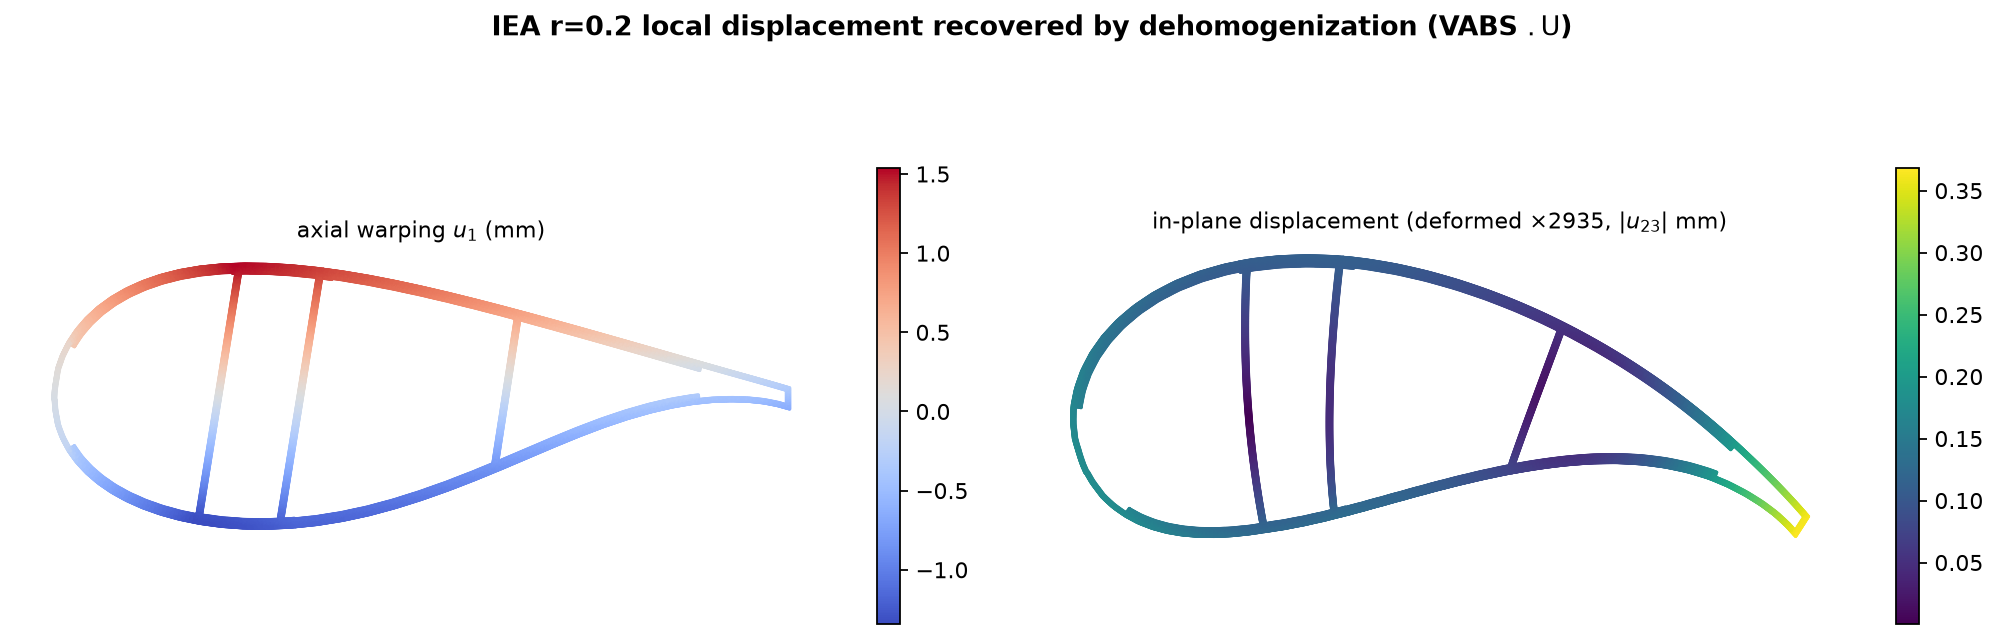
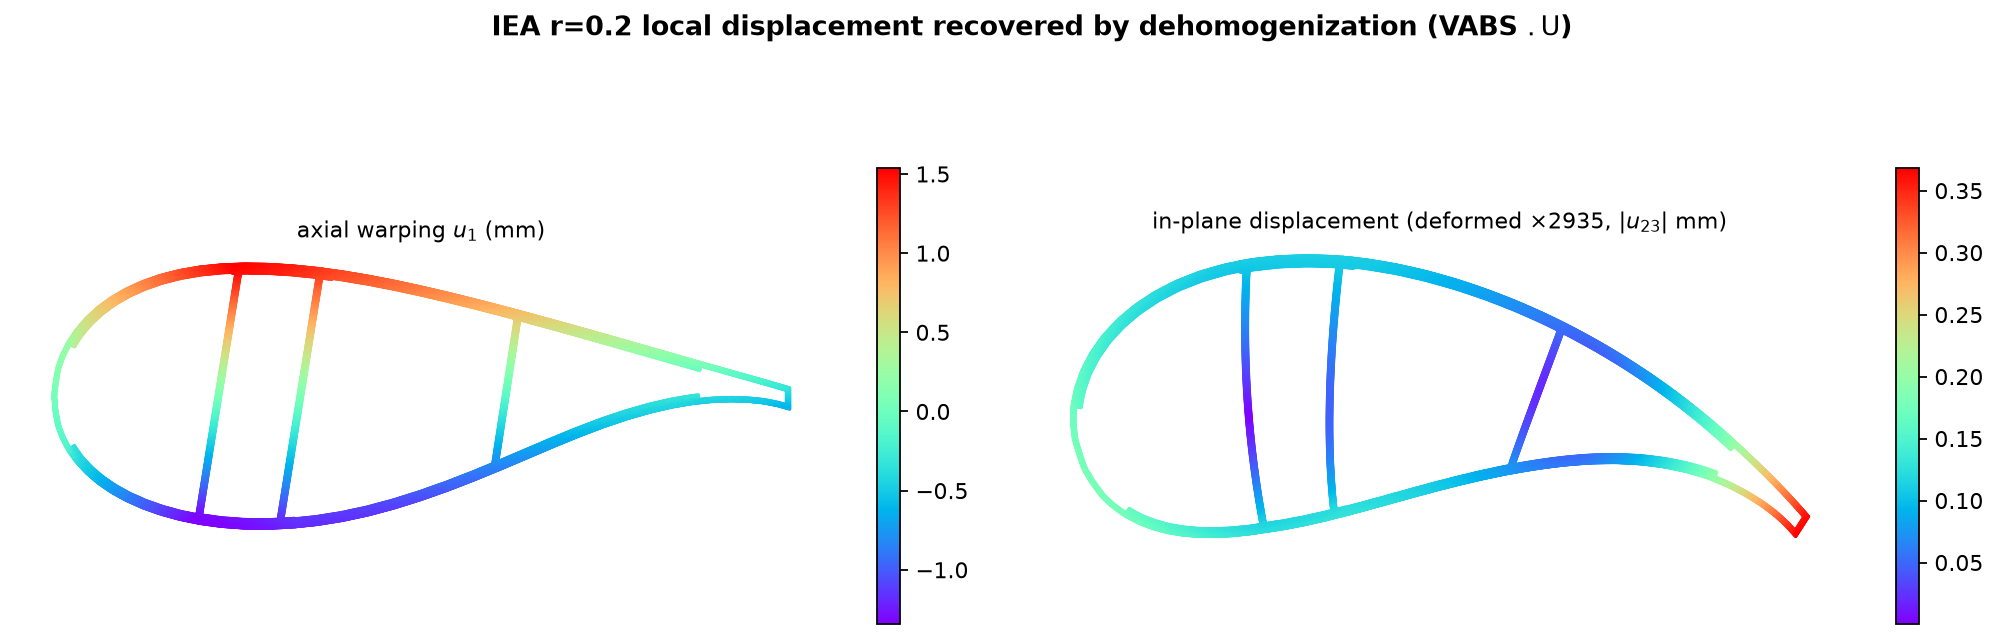
r=0.2 dehom figures: rainbow colormap (materials + displacement fields) + right/vertical legend

diff --git a/examples/TW-paper/xsec_paper/emit_r020_dehom_paper.py b/examples/TW-paper/xsec_paper/emit_r020_dehom_paper.py
@@ -28,7 +28,8 @@ UF = os.path.join(D2, "iea_r020.sg.U")
 TEX = os.path.join(HERE, "results", "tex_rm"); os.makedirs(TEX, exist_ok=True)
 FIG = os.path.join(HERE, "figures"); os.makedirs(FIG, exist_ok=True)
 NAMES = {1: "Gelcoat", 2: "Glass triax", 3: "Foam", 4: "Carbon", 5: "Glass uniax", 6: "Glass biax"}
-FILL = {1: "#bbbbbb", 2: "#9ec7e8", 3: "#f0a3a3", 4: "#d9c69a", 5: "#c8b3de", 6: "#f6b78b"}
+_mk = [1, 2, 3, 4, 5, 6]
+FILL = {m: plt.cm.rainbow(i / (len(_mk) - 1)) for i, m in enumerate(_mk)}   # rainbow by material
 
 
 def rowf(v):
@@ -57,8 +58,9 @@ ax.set_aspect("equal"); ax.autoscale(); ax.axis("off")
 h = [Patch(facecolor=FILL[m], edgecolor="0.4", label=NAMES[m]) for m in sorted(set(mat))]
 h += [plt.Line2D([], [], color="#1f77b4", lw=2, label="circumferential (LP)"),
       plt.Line2D([], [], color="#d62728", lw=2, marker="o", ms=4, label="cap through-thickness")]
-ax.legend(handles=h, loc="lower center", ncol=4, fontsize=8.5, frameon=False, bbox_to_anchor=(0.5, -0.12))
-fig.tight_layout(rect=[0, 0.05, 1, 1])
+ax.legend(handles=h, loc="center left", ncol=1, fontsize=9, frameon=False,
+          bbox_to_anchor=(1.01, 0.5))                                 # vertical, right, off the image
+fig.tight_layout(rect=[0, 0, 0.86, 1])
 fig.savefig(os.path.join(FIG, "r020_section_paths.png"), dpi=170, bbox_inches="tight")
 plt.close(fig); print("wrote r020_section_paths.png")
 
@@ -106,11 +108,11 @@ U = np.loadtxt(UF)                                   # id y2 y3 u1 u2 u3
 uxy = U[:, 1:3]; u1 = U[:, 3]; uip = U[:, 4:6]       # axial warping u1, in-plane (u2,u3)
 sc = 0.15 * (np.ptp(uxy, 0).max()) / (np.linalg.norm(uip, axis=1).max() + 1e-30)
 fig, ax = plt.subplots(1, 2, figsize=(13, 4.4))
-s0 = ax[0].scatter(uxy[:, 0], uxy[:, 1], c=u1 * 1e3, s=2, cmap="coolwarm", linewidths=0)
+s0 = ax[0].scatter(uxy[:, 0], uxy[:, 1], c=u1 * 1e3, s=2, cmap="rainbow", linewidths=0)
 ax[0].set_title(r"axial warping $u_1$ (mm)", fontsize=10); fig.colorbar(s0, ax=ax[0], shrink=0.8)
 mag = np.linalg.norm(uip, axis=1) * 1e3
 s1 = ax[1].scatter(uxy[:, 0] + sc * uip[:, 0], uxy[:, 1] + sc * uip[:, 1], c=mag, s=2,
-                   cmap="viridis", linewidths=0)
+                   cmap="rainbow", linewidths=0)
 ax[1].set_title(r"in-plane displacement (deformed $\times%.0f$, $|u_{23}|$ mm)" % sc, fontsize=10)
 fig.colorbar(s1, ax=ax[1], shrink=0.8)
 for a in ax: